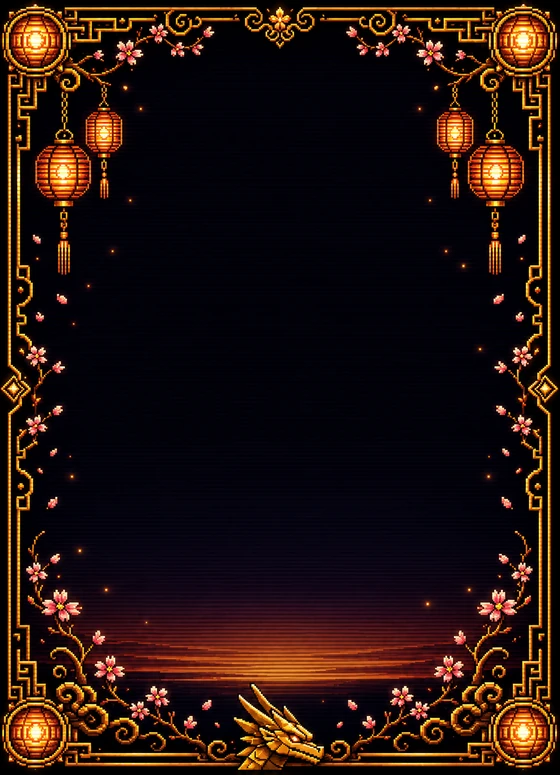
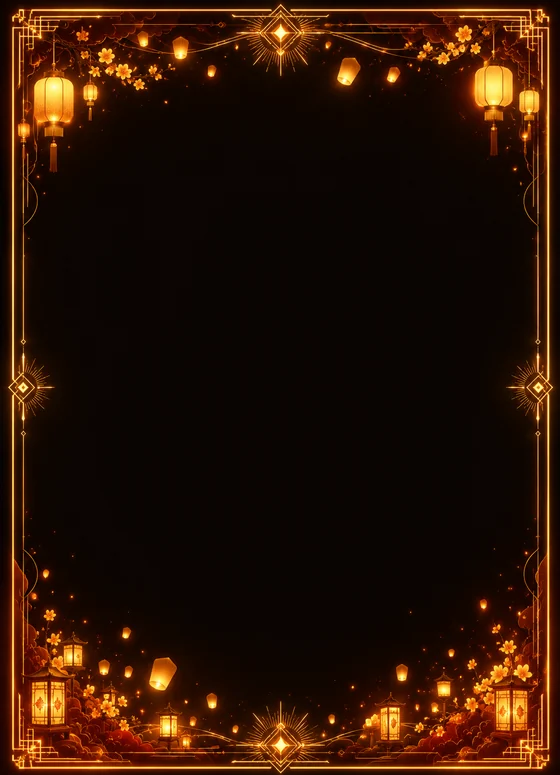
Goldener Drache → „Laternenfest": neue Art + Umbenennung (IDs bleiben drache)
bf_drache + deck_drache auf neue Laternenfest-Art (goldene Laternen, Drache aus
Licht, Pagoden/Fluss). Anzeigename „Goldener Drache" → „Laternenfest" (Deck + BF),
Emblem 🐉 → 🏮; Pack-/Deck-IDs (pack:drache) unverändert → kein Besitz-Bruch.
Deckglow-Showcase-Label mitgezogen. 1000 Tests grün.

Claude-Session: https://claude.ai/code/session_019AHmCns7mZqdQHxExY4Jbx

diff --git a/src/game/cosmetics.js b/src/game/cosmetics.js
@@ -64,7 +64,7 @@ export const DECK_DEFS = {
   deck_geometrie: { id: "deck_geometrie", name: "Metatron",       unlock: { kind: "buy", ownKey: "pack:geometrie" } },
   // #311 DP-Kauf-Packs (je 10 DP, Preis in themes.js):
   deck_sonne:  { id: "deck_sonne",  name: "Sonnenfinsternis", unlock: { kind: "buy", ownKey: "pack:sonne" } },
-  deck_drache: { id: "deck_drache", name: "Goldener Drache",  unlock: { kind: "buy", ownKey: "pack:drache" } },
+  deck_drache: { id: "deck_drache", name: "Laternenfest",     unlock: { kind: "buy", ownKey: "pack:drache" } },
   // #312 DP-Kauf-Packs (je 10 DP, Preis in themes.js):
   deck_arcade:     { id: "deck_arcade",     name: "Arcade",     unlock: { kind: "buy", ownKey: "pack:arcade" } },
   deck_polarlicht: { id: "deck_polarlicht", name: "Polarlicht", unlock: { kind: "buy", ownKey: "pack:polarlicht" } },
@@ -103,7 +103,7 @@ export const BATTLEFIELD_DEFS = {
   bf_geometrie: { id: "bf_geometrie", name: "Metatron · Battlefield",       unlock: { kind: "buy", ownKey: "pack:geometrie" } },
   // #311 DP-Kauf-Packs:
   bf_sonne:  { id: "bf_sonne",  name: "Sonnenfinsternis · Battlefield", unlock: { kind: "buy", ownKey: "pack:sonne" } },
-  bf_drache: { id: "bf_drache", name: "Goldener Drache · Battlefield",  unlock: { kind: "buy", ownKey: "pack:drache" } },
+  bf_drache: { id: "bf_drache", name: "Laternenfest · Battlefield",     unlock: { kind: "buy", ownKey: "pack:drache" } },
   // #312 DP-Kauf-Packs:
   bf_arcade:     { id: "bf_arcade",     name: "Arcade · Battlefield",     unlock: { kind: "buy", ownKey: "pack:arcade" } },
   bf_polarlicht: { id: "bf_polarlicht", name: "Polarlicht · Battlefield", unlock: { kind: "buy", ownKey: "pack:polarlicht" } },

diff --git a/src/game/themes.js b/src/game/themes.js
@@ -195,7 +195,7 @@ export const THEME_DEFS = {
   // ---- #311 DP-Kauf-Packs (je 10 DP) ----
   sonne:  { id: "sonne",  name: "Sonnenfinsternis", emblem: "🌑", kind: "buy", price: 10, a1: "#ffb02a", a2: "#ff6a2a",
     deckId: "deck_sonne",  bfId: "bf_sonne",  els: ["deck", "bf"] },
-  drache: { id: "drache", name: "Goldener Drache",  emblem: "🐉", kind: "buy", price: 10, a1: "#ffcf5a", a2: "#ff5a2a",
+  drache: { id: "drache", name: "Laternenfest",     emblem: "🏮", kind: "buy", price: 10, a1: "#ffcf5a", a2: "#ff5a2a",
     deckId: "deck_drache", bfId: "bf_drache", els: ["deck", "bf"] },
 
   // ---- #312 DP-Kauf-Packs (je 10 DP): Arcade · Polarlicht · Seedrache ----

diff --git a/src/ui/CustomizeScreen.jsx b/src/ui/CustomizeScreen.jsx
@@ -618,7 +618,7 @@ const DECKGLOW_BGS = [
   { bf: "bf_eis", a1: "#46c6ff", name: "Eis" },
   { bf: "bf_ronin", a1: "#ff2f4f", name: "Ronin" },
   { bf: "bf_kosmos", a1: "#ff4dcb", name: "Schwarzes Loch" },
-  { bf: "bf_drache", a1: "#ffcf5a", name: "Drache" },
+  { bf: "bf_drache", a1: "#ffcf5a", name: "Laternenfest" },
   { bf: "bf_polarlicht", a1: "#7cc6ff", name: "Polarlicht" },
 ];
 function DeckGlowScene() { // #336: kein Farbmodus mehr — Glow ist immer Deckfarbe (Tint); die Vorschau tönt je BG in dessen Akzent
